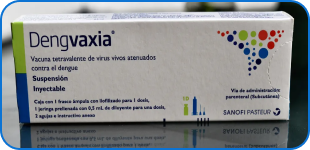
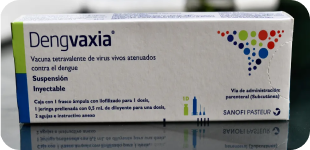
final section

Changed region(s): [[0.0, 0.0, 1.0, 1.0]]

diff --git a/global.css b/global.css
@@ -590,6 +590,10 @@ video {
   height: 18rem;
 }
 
+.h-\[100\%\] {
+  height: 100%;
+}
+
 .h-\[140px\] {
   height: 140px;
 }
@@ -602,8 +606,16 @@ video {
   height: 175px;
 }
 
+.h-\[180px\] {
+  height: 180px;
+}
+
 .h-\[194px\] {
   height: 194px;
+}
+
+.h-\[30px\] {
+  height: 30px;
 }
 
 .h-\[555px\] {
@@ -618,22 +630,6 @@ video {
   height: auto;
 }
 
-.h-\[\] {
-  height: ;
-}
-
-.h-\[18\] {
-  height: 18;
-}
-
-.h-\[180px\] {
-  height: 180px;
-}
-
-.h-\[100\%\] {
-  height: 100%;
-}
-
 .w-20 {
   width: 5rem;
 }
@@ -644,6 +640,10 @@ video {
 
 .w-\[100\%\] {
   width: 100%;
+}
+
+.w-\[100px\] {
+  width: 100px;
 }
 
 .w-\[155px\] {
@@ -674,14 +674,6 @@ video {
   width: auto;
 }
 
-.w-\[100\] {
-  width: 100;
-}
-
-.w-\[100px\] {
-  width: 100px;
-}
-
 .flex-1 {
   flex: 1 1 0%;
 }
@@ -706,16 +698,12 @@ video {
   gap: 0.75rem;
 }
 
-.gap-\[6px\] {
-  gap: 6px;
-}
-
 .gap-5 {
   gap: 1.25rem;
 }
 
-.overflow-hidden {
-  overflow: hidden;
+.gap-\[6px\] {
+  gap: 6px;
 }
 
 .rounded {
@@ -730,8 +718,28 @@ video {
   border-radius: 20px;
 }
 
+.rounded-\[5px\] {
+  border-radius: 5px;
+}
+
 .rounded-lg {
   border-radius: 0.5rem;
+}
+
+.rounded-md {
+  border-radius: 0.375rem;
+}
+
+.rounded-xl {
+  border-radius: 0.75rem;
+}
+
+.rounded-2xl {
+  border-radius: 1rem;
+}
+
+.rounded-3xl {
+  border-radius: 1.5rem;
 }
 
 .border {
@@ -740,6 +748,10 @@ video {
 
 .border-2 {
   border-width: 2px;
+}
+
+.border-\[3px\] {
+  border-width: 3px;
 }
 
 .border-b {
@@ -759,8 +771,17 @@ video {
   border-color: rgb(12 115 211 / 0.2);
 }
 
+.bg-blue {
+  --tw-bg-opacity: 1;
+  background-color: rgb(12 115 211 / var(--tw-bg-opacity));
+}
+
 .bg-blue\/10 {
   background-color: rgb(12 115 211 / 0.1);
+}
+
+.bg-blue\/60 {
+  background-color: rgb(12 115 211 / 0.6);
 }
 
 .bg-lightBlue {
@@ -778,44 +799,8 @@ video {
   background-color: rgb(250 250 250 / var(--tw-bg-opacity));
 }
 
-.bg-blue\/20 {
-  background-color: rgb(12 115 211 / 0.2);
-}
-
-.bg-blue\/80 {
-  background-color: rgb(12 115 211 / 0.8);
-}
-
-.bg-blue {
-  --tw-bg-opacity: 1;
-  background-color: rgb(12 115 211 / var(--tw-bg-opacity));
-}
-
-.bg-blue\/70 {
-  background-color: rgb(12 115 211 / 0.7);
-}
-
-.bg-blue\/60 {
-  background-color: rgb(12 115 211 / 0.6);
-}
-
 .p-\[20px\] {
   padding: 20px;
-}
-
-.px-3 {
-  padding-left: 0.75rem;
-  padding-right: 0.75rem;
-}
-
-.px-\[40px\] {
-  padding-left: 40px;
-  padding-right: 40px;
-}
-
-.py-\[80px\] {
-  padding-top: 80px;
-  padding-bottom: 80px;
 }
 
 .px-10 {
@@ -823,9 +808,19 @@ video {
   padding-right: 2.5rem;
 }
 
-.px-8 {
-  padding-left: 2rem;
-  padding-right: 2rem;
+.px-3 {
+  padding-left: 0.75rem;
+  padding-right: 0.75rem;
+}
+
+.px-4 {
+  padding-left: 1rem;
+  padding-right: 1rem;
+}
+
+.px-\[40px\] {
+  padding-left: 40px;
+  padding-right: 40px;
 }
 
 .py-2 {
@@ -833,9 +828,9 @@ video {
   padding-bottom: 0.5rem;
 }
 
-.px-4 {
-  padding-left: 1rem;
-  padding-right: 1rem;
+.py-\[80px\] {
+  padding-top: 80px;
+  padding-bottom: 80px;
 }
 
 .pb-32 {
@@ -846,20 +841,12 @@ video {
   padding-bottom: 20px;
 }
 
-.pt-5 {
-  padding-top: 1.25rem;
-}
-
-.pt-32 {
-  padding-top: 8rem;
-}
-
 .pl-5 {
   padding-left: 1.25rem;
 }
 
-.pt-10 {
-  padding-top: 2.5rem;
+.pt-5 {
+  padding-top: 1.25rem;
 }
 
 .pt-\[80px\] {
@@ -868,6 +855,11 @@ video {
 
 .text-center {
   text-align: center;
+}
+
+.text-2xl {
+  font-size: 1.5rem;
+  line-height: 2rem;
 }
 
 .text-\[12px\] {
@@ -894,6 +886,10 @@ video {
   font-size: 26px;
 }
 
+.text-\[30px\] {
+  font-size: 30px;
+}
+
 .text-\[45px\] {
   font-size: 45px;
 }
@@ -903,17 +899,12 @@ video {
   line-height: 1.75rem;
 }
 
-.text-\[30px\] {
-  font-size: 30px;
-}
-
-.text-2xl {
-  font-size: 1.5rem;
-  line-height: 2rem;
-}
-
 .font-bold {
   font-weight: 700;
+}
+
+.font-extralight {
+  font-weight: 200;
 }
 
 .font-normal {
@@ -922,14 +913,6 @@ video {
 
 .font-semibold {
   font-weight: 600;
-}
-
-.font-light {
-  font-weight: 300;
-}
-
-.font-extralight {
-  font-weight: 200;
 }
 
 .text-blue {
@@ -944,8 +927,4 @@ video {
 .text-white {
   --tw-text-opacity: 1;
   color: rgb(255 255 255 / var(--tw-text-opacity));
-}
-
-.text-\[\] {
-  color: ;
 }

diff --git a/pages/Home/index.js b/pages/Home/index.js
@@ -27,10 +27,10 @@ export default function Home() {
       <View className="mt-[20px]">
         <Text className="font-semibold text-[24px]" >Conteúdos</Text>
         <View className="bg-lightBlue w-auto h-[555px] rounded-[10px] mt-5">
-          <ContentsWealth IconGroup={FontAwesome} icon="heartbeat" text="Guia de Vigilância em Saúde - 6º edição" title="Vigilância em Saúde"/>
-          <ContentsWealth IconGroup={MaterialCommunityIcons} icon="baby-face-outline" text="Saúde da Criança" title="Saúde da família"/>
-          <ContentsWealth IconGroup={MaterialCommunityIcons} icon="hospital-box" text="Guia de Vigilância em Saúde - 6º edição" title="Vigilância em Saúde"/>
-          <ContentsWealth IconGroup={FontAwesome6} icon="hospital" text="Guia de Vigilância em Saúde - 6º edição" title="Vigilância em Saúde"/>
+          <ContentsWealth IconGroup={FontAwesome} icon="heartbeat" text="Guia de Vigilância em Saúde - 6º edição" title="Vigilância em Saúde" link="https://www.gov.br/saude/pt-br/centrais-de-conteudo/publicacoes/svsa/vigilancia/guia-de-vigilancia-em-saude-volume-3-6a-edicao/view"/>
+          <ContentsWealth IconGroup={MaterialCommunityIcons} icon="baby-face-outline" text="Saúde da Criança" title="Saúde da família" link="https://www.gov.br/saude/pt-br/composicao/saps/estrategia-saude-da-familia"/>
+          <ContentsWealth IconGroup={MaterialCommunityIcons} icon="hospital-box" text="Plano Nacional de Saúde 2016-2019" title="Plano de Saúde" link="https://www.gov.br/saude/pt-br/acesso-a-informacao/acoes-e-programas/proadi-sus/sobre-o-programa/arquivos/plano-nacional-saude-2016-2019.pdf/view"/>
+          <ContentsWealth IconGroup={FontAwesome6} icon="hospital" text="Financiamento da Saúde – CONASEMS" title="Financiamento da saúde" link="https://www.gov.br/saude/pt-br/acesso-a-informacao/gestao-do-sus/articulacao-interfederativa/cit/pautas-de-reunioes-e-resumos/2016/abril/2-d-mauro_conasems_cti.pdf/view"/>
         </View>
       </View>
     </ScrollView>

diff --git a/src/components/ContentsWealth.js b/src/components/ContentsWealth.js
@@ -1,11 +1,11 @@
-import { Text, View, TouchableOpacity } from "react-native";
+import { Text, View, TouchableOpacity, Linking } from "react-native";
 import { useNavigation } from '@react-navigation/native';
 
 
-export default function ContentsWealth({ IconGroup, icon, title, text }) {
+export default function ContentsWealth({ IconGroup, icon, title, text, link }) {
     const navigation = useNavigation();
     return (
-        <TouchableOpacity className="mx-[25px] mt-[25px] pb-[20px] flex flex-row justify-between items-center border-b border-black/10">
+        <TouchableOpacity className="mx-[25px] mt-[25px] pb-[20px] flex flex-row justify-between items-center border-b border-black/10"  onPress={() => Linking.openURL(link)}>
           <View className="bg-lightBlue w-[195px] h-[90px] flex gap-[6px]">
             <Text className="font-semibold text-[14px] text-blue">{title}</Text>
             <Text className="font-normal text-[16px]">{text}</Text>

diff --git a/pages/Vacinas/index.js b/pages/Vacinas/index.js
@@ -18,6 +18,9 @@ export default function Vacinas() {
         <SectionVacina title="Dengvaxia:" path="../../assets/dengvaxia.png">
           Produzida pela Sanofi Medley, é recomendada para indivíduos que já tiveram dengue, entre 6 e 45 anos de idade.<br/><br/>O esquema vacinal consiste em três doses, com intervalos de seis meses entre elas.
         </SectionVacina>
+        <SectionVacina title="Butantan-DV:" path="../../assets/butantan.png">
+          Produzida pelo Instituto Butantan, a vacina contra a dengue em desenvolvimento está na sua terceira fase.<br/><br/>O esquema vacinal é composto por dose única, sendo feita para que apenas uma dose seja necessária.
+        </SectionVacina>
     </ScrollView>
   );
 }

diff --git a/src/components/SectionVacina.js b/src/components/SectionVacina.js
@@ -17,7 +17,7 @@ export default function SectionVacina({ path, title, children }) {
                 </Text>
             </View>
             <View className="pt-5 px-3">
-                <Image source={`${path}`} className="w-[290px] h-[140px]"/>
+                <Image source={`${path}`} className="w-[290px] h-[140px] border-blue border-[3px] rounded-[20px]"/>
             </View>
         </View>
     )
